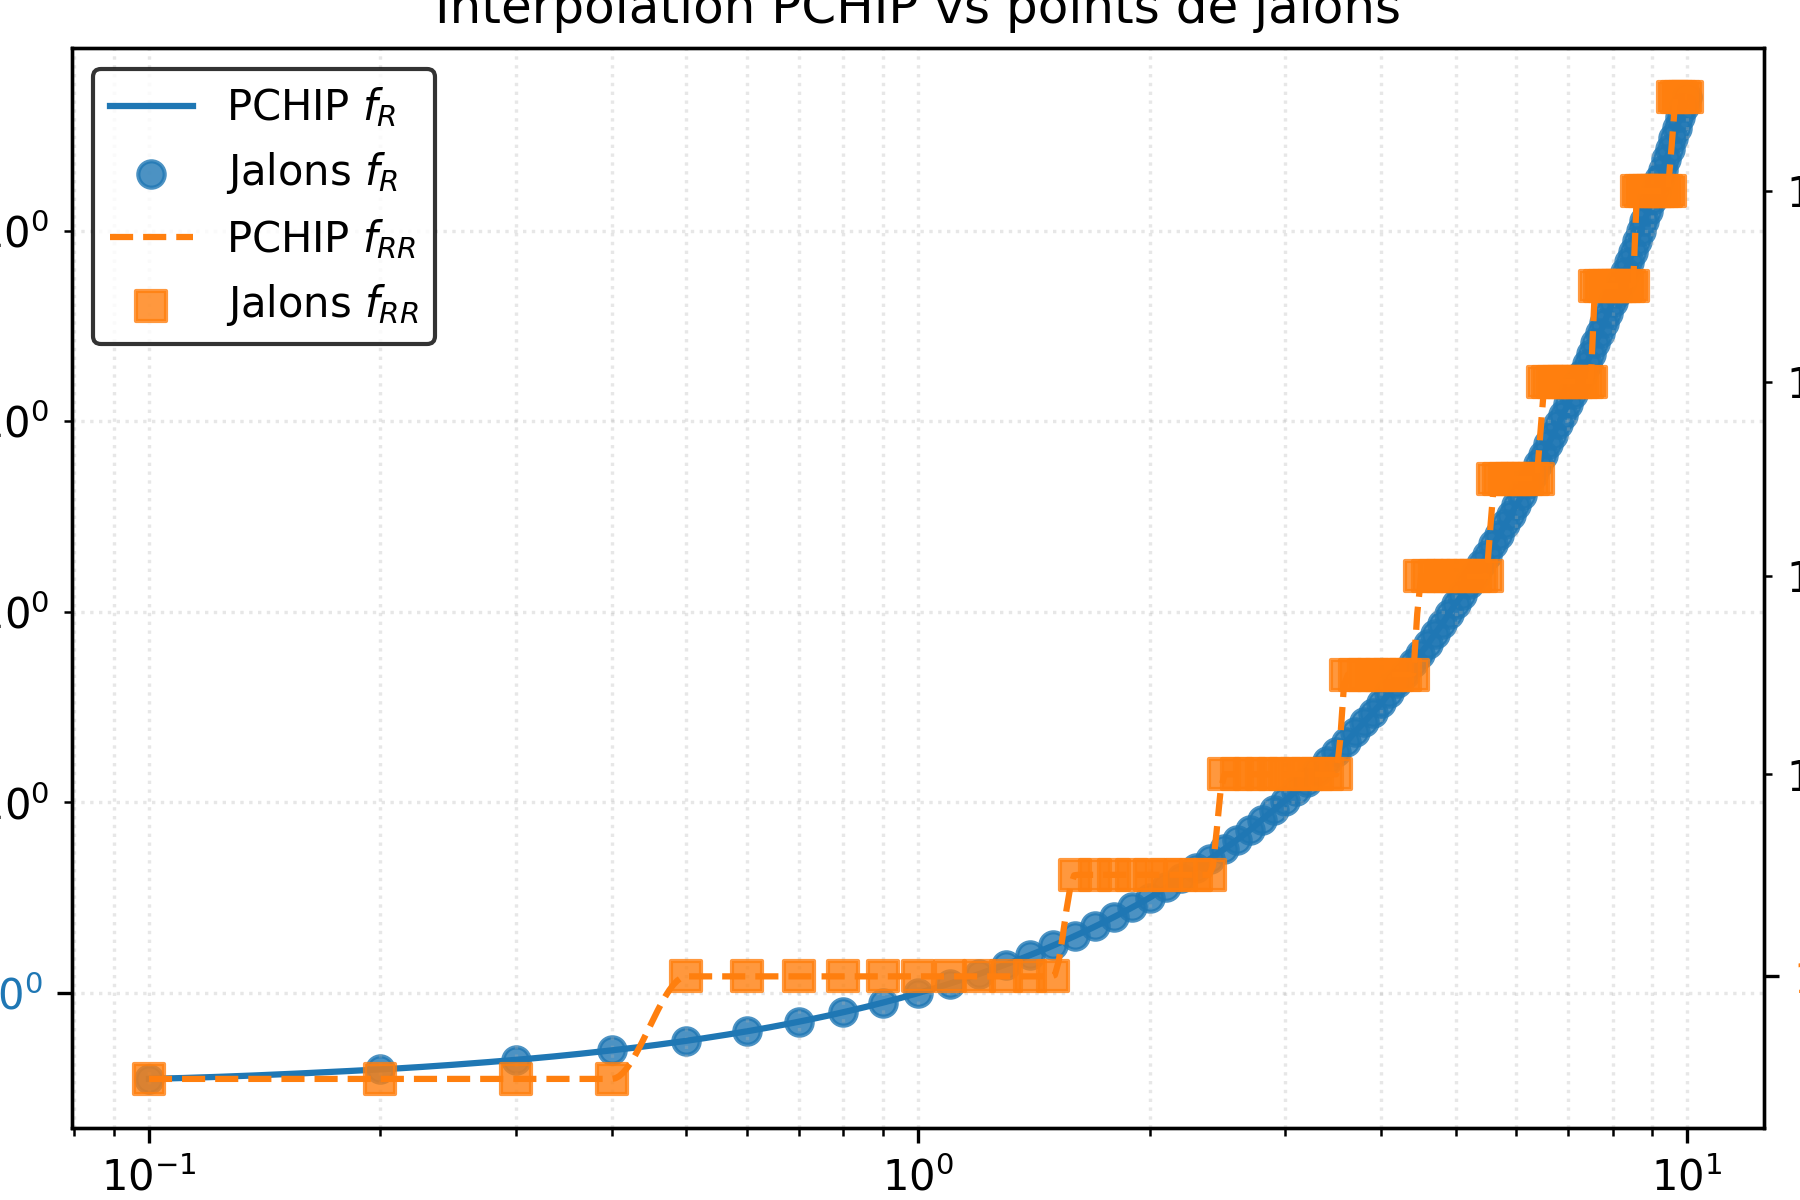
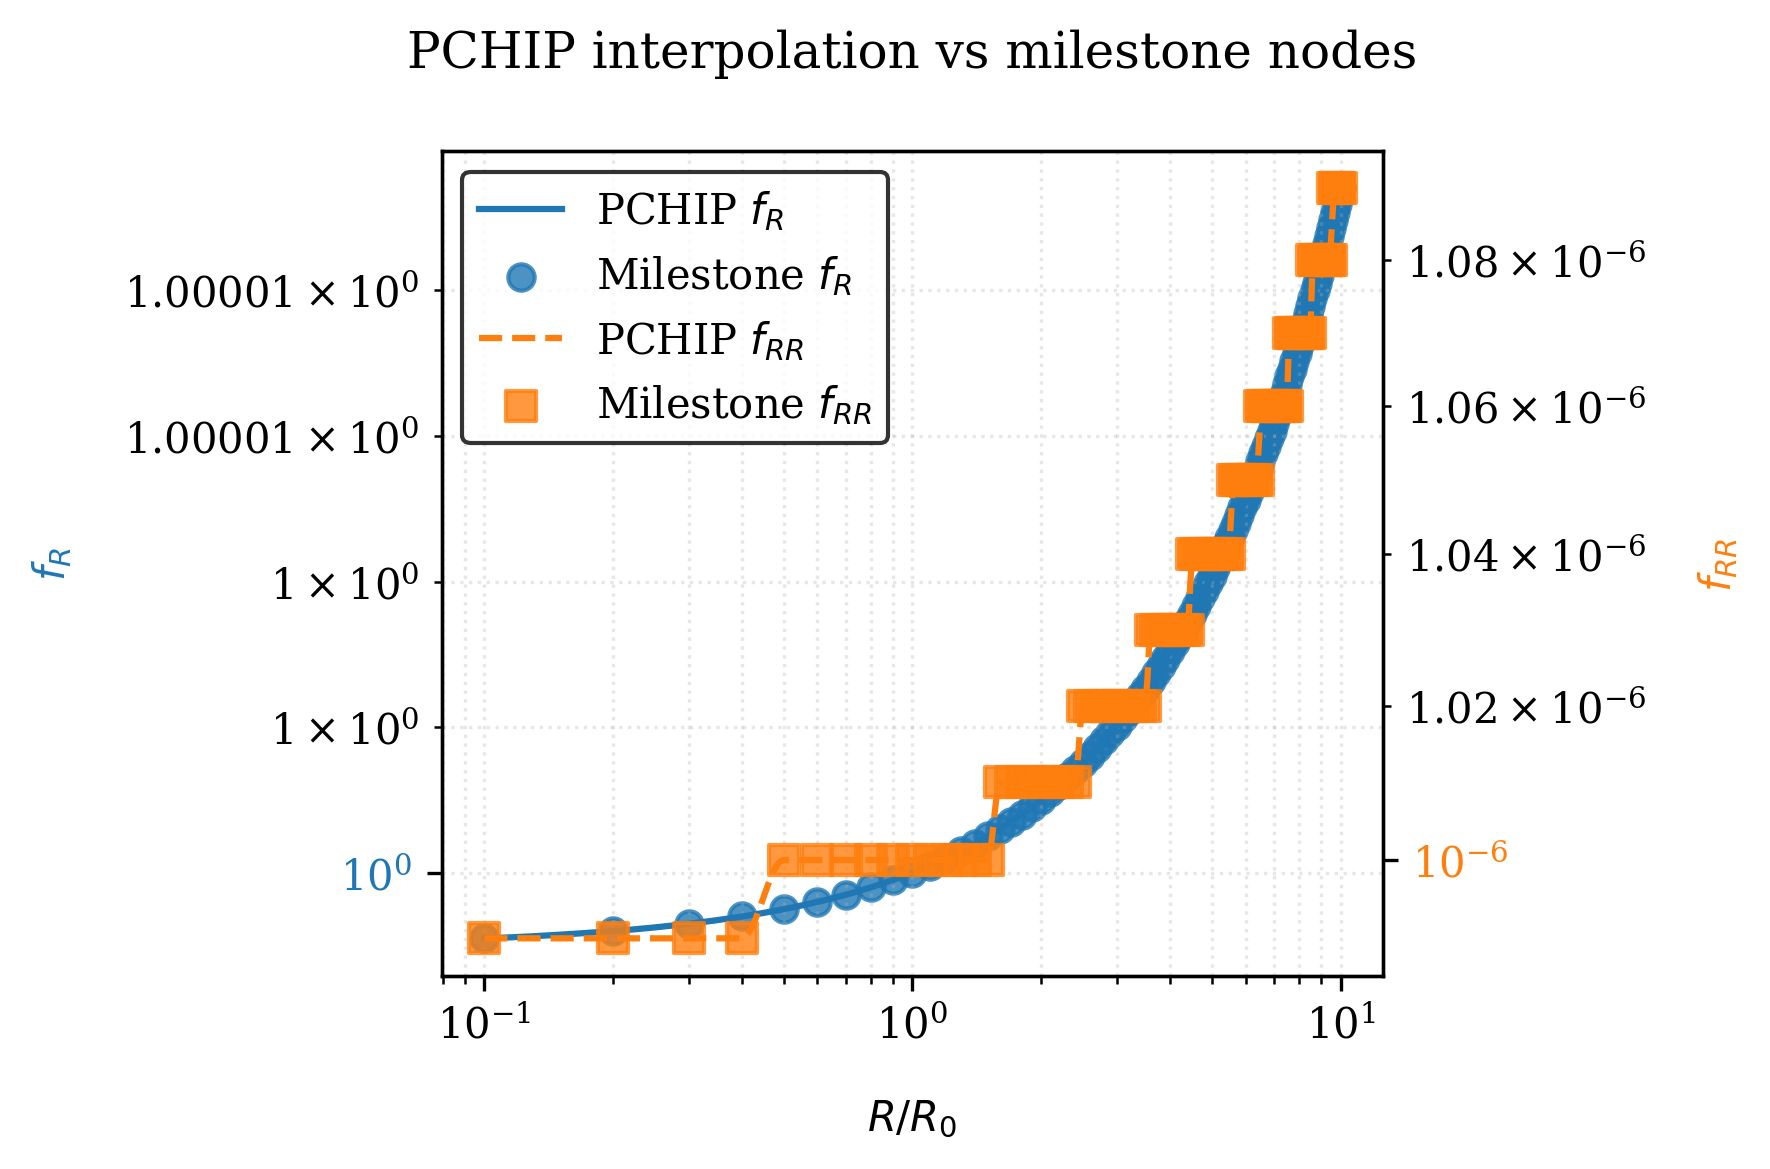
viz(ch03): merge duplicate scripts, standardize styling, and localize to English

diff --git a/zz-scripts/chapter03/plot_fig05_interpolated_milestones.py b/zz-scripts/chapter03/plot_fig05_interpolated_milestones.py
@@ -107,6 +107,17 @@ import numpy as np
 import pandas as pd
 from scipy.interpolate import PchipInterpolator
 
+plt.rcParams.update(
+    {
+        "figure.autolayout": True,
+        "figure.figsize": (10, 6),
+        "axes.titlepad": 20,
+        "axes.labelpad": 12,
+        "savefig.bbox": "tight",
+        "font.family": "serif",
+    }
+)
+
 # ----------------------------------------------------------------------
 # Configuration logging
 # ----------------------------------------------------------------------
@@ -158,10 +169,10 @@ def main() -> None:
     # 5. Tracé
     fig, ax1 = plt.subplots(dpi=300, figsize=(6, 4))
 
-    #   5a. Courbe PCHIP fR
+    #   5a. PCHIP curve fR
     color1 = "tab:blue"
     ax1.plot(R_dense, fR_dense, color=color1, lw=1.5, label=r"PCHIP $f_R$")
-    #   5b. Points jalons fR
+    #   5b. Milestone points fR
     ax1.scatter(
         jalons["R_over_R0"],
         jalons["f_R"],
@@ -169,7 +180,7 @@ def main() -> None:
         marker="o",
         s=40,
         alpha=0.8,
-        label=r"Jalons $f_R$",
+        label=r"Milestone $f_R$",
     )
 
     ax1.set_xscale("log")
@@ -190,7 +201,7 @@ def main() -> None:
         linestyle="--",
         label=r"PCHIP $f_{RR}$",
     )
-    #   5d. Points jalons fRR
+    #   5d. Milestone points fRR
     ax2.scatter(
         jalons["R_over_R0"],
         jalons["f_RR"],
@@ -198,7 +209,7 @@ def main() -> None:
         marker="s",
         s=50,
         alpha=0.8,
-        label=r"Jalons $f_{RR}$",
+        label=r"Milestone $f_{RR}$",
     )
     ax2.set_yscale("log")
     ax2.set_ylabel(r"$f_{RR}$", color=color2)
@@ -210,7 +221,7 @@ def main() -> None:
     ax1.legend(h1 + h2, l1 + l2, loc="best", framealpha=0.8, edgecolor="black")
 
     # 7. Titre
-    ax1.set_title("Interpolation PCHIP vs points de jalons")
+    ax1.set_title("PCHIP interpolation vs milestone nodes")
 
     # 8. Finalisation et sauvegarde
     fig.subplots_adjust(left=0.04, right=0.98, bottom=0.06, top=0.96)

diff --git a/zz-scripts/chapter03/plot_fig06_grid_quality.py b/zz-scripts/chapter03/plot_fig06_grid_quality.py
@@ -4,6 +4,17 @@ import tempfile
 import matplotlib.pyplot as _plt
 from pathlib import Path as _SafePath
 
+_plt.rcParams.update(
+    {
+        "figure.autolayout": True,
+        "figure.figsize": (10, 6),
+        "axes.titlepad": 20,
+        "axes.labelpad": 12,
+        "savefig.bbox": "tight",
+        "font.family": "serif",
+    }
+)
+
 def _sha256(path: _SafePath) -> str:
     h = hashlib.sha256()
     with path.open("rb") as f:
@@ -166,7 +177,7 @@ def main() -> None:
         marker="o",
         linestyle="-",
         markersize=3,
-        label="Grille R↔z uniforme",
+        label="Uniform R↔z grid",
     )
 
     # ligne du pas théorique
@@ -176,12 +187,12 @@ def main() -> None:
         color="red",
         linestyle="--",
         linewidth=1.2,
-        label=rf"Pas théorique $\Delta\log_{{10}}={dlog_th:.3e}$",
+        label=rf"Theoretical step $\Delta\log_{{10}}={dlog_th:.3e}$",
     )
 
-    ax.set_xlabel("Index de la grille")
+    ax.set_xlabel("Grid index")
     ax.set_ylabel(r"$\Delta\log_{10}(R/R_0)$")
-    ax.set_title("Uniformité du pas en log₁₀(R/R₀) sur la grille")
+    ax.set_title("Log₁₀(R/R₀) step uniformity across grid")
     ax.grid(True, which="both", ls=":", alpha=0.3)
     ax.legend(loc="lower right", framealpha=0.8)
 

diff --git a/zz-scripts/chapter03/plot_fig08_ricci_fR_vs_T.py b/zz-scripts/chapter03/plot_fig08_ricci_fR_vs_T.py
@@ -4,6 +4,17 @@ import tempfile
 import matplotlib.pyplot as _plt
 from pathlib import Path as _SafePath
 
+_plt.rcParams.update(
+    {
+        "figure.autolayout": True,
+        "figure.figsize": (10, 6),
+        "axes.titlepad": 20,
+        "axes.labelpad": 12,
+        "savefig.bbox": "tight",
+        "font.family": "serif",
+    }
+)
+
 def _sha256(path: _SafePath) -> str:
     h = hashlib.sha256()
     with path.open("rb") as f:
@@ -103,7 +114,7 @@ def main() -> None:
     ax1.plot(df["T_Gyr"], df["f_R"], c=color1, lw=1, alpha=0.6)
     ax1.set_xscale("log")
     ax1.set_yscale("log")
-    ax1.set_xlabel("Âge de l’Univers $T$ (Gyr)")
+    ax1.set_xlabel(r"$T$ [Gyr]")
     ax1.set_ylabel(r"$f_R$", color=color1)
     ax1.tick_params(axis="y", labelcolor=color1)
     ax1.grid(True, which="both", ls=":", alpha=0.3)
@@ -130,9 +141,7 @@ def main() -> None:
 
     # 6. Titre
     Tmin, Tmax = df["T_Gyr"].min(), df["T_Gyr"].max()
-    ax1.set_title(
-        rf"Jalons $f_R$ et $f_{{RR}}$ vs âge $T\in[{Tmin:.2f},{Tmax:.2f}]\,$Gyr"
-    )
+    ax1.set_title("Node Distribution vs Redshift/Age")
 
     # 7. Finalisation
     fig.subplots_adjust(left=0.04, right=0.98, bottom=0.06, top=0.96)

diff --git a/zz-scripts/chapter03/plot_fig04_fR_fRR_vs_f.py b/zz-scripts/chapter03/plot_fig04_fR_fRR_vs_f.py
@@ -4,6 +4,17 @@ import tempfile
 import matplotlib.pyplot as _plt
 from pathlib import Path as _SafePath
 
+_plt.rcParams.update(
+    {
+        "figure.autolayout": True,
+        "figure.figsize": (10, 6),
+        "axes.titlepad": 20,
+        "axes.labelpad": 12,
+        "savefig.bbox": "tight",
+        "font.family": "serif",
+    }
+)
+
 def _sha256(path: _SafePath) -> str:
     h = hashlib.sha256()
     with path.open("rb") as f:
@@ -141,7 +152,7 @@ def main() -> None:
 
     # 3. Création de la figure
     fig, ax1 = plt.subplots(dpi=300, figsize=(6, 4))
-    fig.suptitle(r"$f_R$ et $f_{RR}$ en fonction de $R/R_0$ (double axe)", y=0.98)
+    fig.suptitle(r"$f_R$ and $f_{RR}$ vs $R/R_0$ (dual axis)", y=0.98)
 
     # axe X en log
     ax1.set_xscale("log")
@@ -165,9 +176,7 @@ def main() -> None:
     ax2.tick_params(axis="y", labelcolor="tab:orange")
 
     # 6. Marqueur vertical du pivot à R/R0 = 1
-    ln3 = ax1.axvline(
-        1.0, color="gray", linestyle="--", lw=1.0, label="Pivot : $R/R_0=1$"
-    )
+    ln3 = ax1.axvline(1.0, color="gray", linestyle="--", lw=1.0, label=r"Pivot: $R/R_0=1$")
 
     # 7. Légende explicite
     handles = [ln1, ln2, ln3]

diff --git a/zz-scripts/chapter03/plot_fig03_ms2_R0_vs_f.py b/zz-scripts/chapter03/plot_fig03_ms2_R0_vs_f.py
@@ -4,6 +4,17 @@ import tempfile
 import matplotlib.pyplot as _plt
 from pathlib import Path as _SafePath
 
+_plt.rcParams.update(
+    {
+        "figure.autolayout": True,
+        "figure.figsize": (10, 6),
+        "axes.titlepad": 20,
+        "axes.labelpad": 12,
+        "savefig.bbox": "tight",
+        "font.family": "serif",
+    }
+)
+
 def _sha256(path: _SafePath) -> str:
     h = hashlib.sha256()
     with path.open("rb") as f:
@@ -140,7 +151,7 @@ def main() -> None:
     )
     ax.set_xlabel(r"$R/R_0$")
     ax.set_ylabel(r"$m_s^{2}/R_0$")
-    ax.set_title(r"Évolution de $m_s^{2}/R_0$ en fonction de $R/R_0$")
+    ax.set_title("Curvature Evolution - High Curvature Zoom")
     ax.grid(True, which="both", ls="--", alpha=0.2)
     ax.legend(loc="upper right", framealpha=0.8, edgecolor="black")
 
@@ -181,7 +192,7 @@ def main() -> None:
         ax_in.yaxis.set_major_formatter(sf)
         ax_in.tick_params(axis="y", which="major", pad=2)
 
-        ax_in.set_title("Zoom haute courbure", fontsize=8)
+        ax_in.set_title("High-curvature zoom", fontsize=8)
         ax_in.grid(True, which="both", ls=":", alpha=0.3)
 
     # 5. Finalisation

diff --git a/zz-scripts/chapter03/plot_fig07_ricci_fR_vs_z.py b/zz-scripts/chapter03/plot_fig07_ricci_fR_vs_z.py
@@ -58,6 +58,17 @@ from pathlib import Path
 import matplotlib.pyplot as plt
 import pandas as pd
 
+plt.rcParams.update(
+    {
+        "figure.autolayout": True,
+        "figure.figsize": (10, 6),
+        "axes.titlepad": 20,
+        "axes.labelpad": 12,
+        "savefig.bbox": "tight",
+        "font.family": "serif",
+    }
+)
+
 # ----------------------------------------------------------------------
 # Configuration logging
 # ----------------------------------------------------------------------
@@ -133,7 +144,7 @@ def main() -> None:
     ax2.set_yscale("log")
 
     # 6. Axes communs & grille
-    ax1.set_xlabel("Redshift $z$")
+    ax1.set_xlabel(r"$z$")
     ax1.grid(True, which="both", ls=":", alpha=0.3)
 
     # 7. Légende combinée
@@ -148,9 +159,7 @@ def main() -> None:
     )
 
     # 8. Titre avec plage effective
-    ax1.set_title(
-        rf"Jalons $f_R$ et $f_{{RR}}$ vs redshift $z\in[{zmin:.2f},\,{zmax:.2f}]$"
-    )
+    ax1.set_title("Node Distribution vs Redshift/Age")
 
     # 9. Finalisation
     fig.subplots_adjust(left=0.04, right=0.98, bottom=0.06, top=0.96)

diff --git a/zz-scripts/chapter03/plot_fig01_fR_stability_domain.py b/zz-scripts/chapter03/plot_fig01_fR_stability_domain.py
@@ -4,6 +4,17 @@ import tempfile
 import matplotlib.pyplot as _plt
 from pathlib import Path as _SafePath
 
+_plt.rcParams.update(
+    {
+        "figure.autolayout": True,
+        "figure.figsize": (10, 6),
+        "axes.titlepad": 20,
+        "axes.labelpad": 12,
+        "savefig.bbox": "tight",
+        "font.family": "serif",
+    }
+)
+
 def _sha256(path: _SafePath) -> str:
     h = hashlib.sha256()
     with path.open("rb") as f:
@@ -143,7 +154,7 @@ def main() -> None:
         df["gamma_max"],
         color="lightgray",
         alpha=0.5,
-        label="Domaine de stabilité",
+        label="Stability Domain",
     )
 
     # Repère β = 1
@@ -153,8 +164,8 @@ def main() -> None:
     ax.set_xscale("log")
     ax.set_yscale("log")
     ax.set_xlabel(r"$\beta = R / R_0$")
-    ax.set_ylabel(r"$\gamma$ (sans dimension)")
-    ax.set_title("Domaine de stabilité de $f(R)$ (Chapitre 3)")
+    ax.set_ylabel(r"$\gamma$ (dimensionless)")
+    ax.set_title("Stability Domain of f(R) - Chapter 3")
 
     ax.grid(True, which="both", ls=":", alpha=0.2)
 

diff --git a/zz-scripts/chapter03/plot_fig02_fR_fRR_vs_f.py b/zz-scripts/chapter03/plot_fig02_fR_fRR_vs_f.py
@@ -4,6 +4,17 @@ import tempfile
 import matplotlib.pyplot as _plt
 from pathlib import Path as _SafePath
 
+_plt.rcParams.update(
+    {
+        "figure.autolayout": True,
+        "figure.figsize": (10, 6),
+        "axes.titlepad": 20,
+        "axes.labelpad": 12,
+        "savefig.bbox": "tight",
+        "font.family": "serif",
+    }
+)
+
 def _sha256(path: _SafePath) -> str:
     h = hashlib.sha256()
     with path.open("rb") as f:
@@ -145,7 +156,7 @@ def main() -> None:
 
     ax.set_xlabel(r"$R/R_0$")
     ax.set_ylabel(r"$f_R,\;f_{RR}$")
-    ax.set_title(r"$f_R$ et $f_{RR}$ en fonction de $R/R_0$")
+    ax.set_title(r"$f_R$ and $f_{RR}$ vs $R/R_0$")
     ax.grid(True, which="both", ls=":", alpha=0.3)
 
     # 4. Légende à mi-hauteur complètement à gauche
